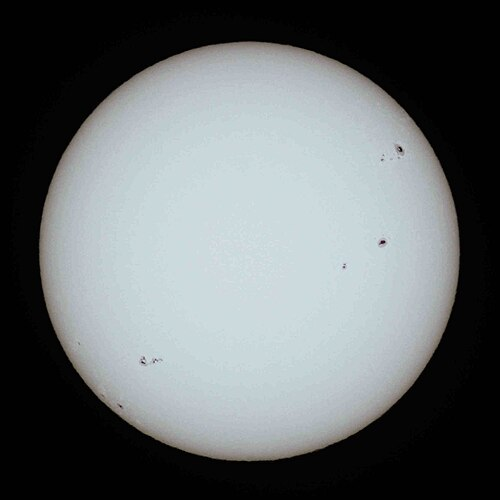
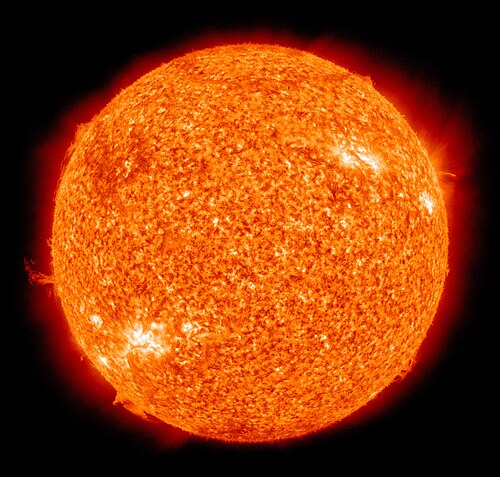
Landing: move CTA button under tagline; swap Sun to fiery gold SDO image

diff --git a/landing/index.html b/landing/index.html
@@ -216,13 +216,11 @@
         box-shadow: 0 0 24px rgba(255, 93, 143, 0.4);
       }
 
-      footer {
-        margin-top: clamp(48px, 9vh, 90px);
-      }
       .cta {
         display: inline-flex;
         align-items: center;
         gap: 10px;
+        margin-top: clamp(22px, 4vh, 34px);
         padding: 15px 28px;
         border-radius: 999px;
         background: linear-gradient(135deg, var(--accent), var(--accent-2));
@@ -269,6 +267,10 @@
       <h1>BALTORATORA</h1>
       <div class="tagline">Scientia Potentia Est</div>
 
+      <a class="cta" href="https://demo.baltoratora.my">
+        Explore the daily STEM dashboard <span class="cta-arrow">→</span>
+      </a>
+
       <section class="apod" aria-label="Our solar system">
         <div class="apod-eyebrow">Our solar system</div>
         <div class="planets">
@@ -289,11 +291,6 @@
         <div class="cal-grid" id="cal-grid"></div>
       </section>
 
-      <footer>
-        <a class="cta" href="https://demo.baltoratora.my">
-          Explore the daily STEM dashboard <span class="cta-arrow">→</span>
-        </a>
-      </footer>
     </main>
 
     <script>